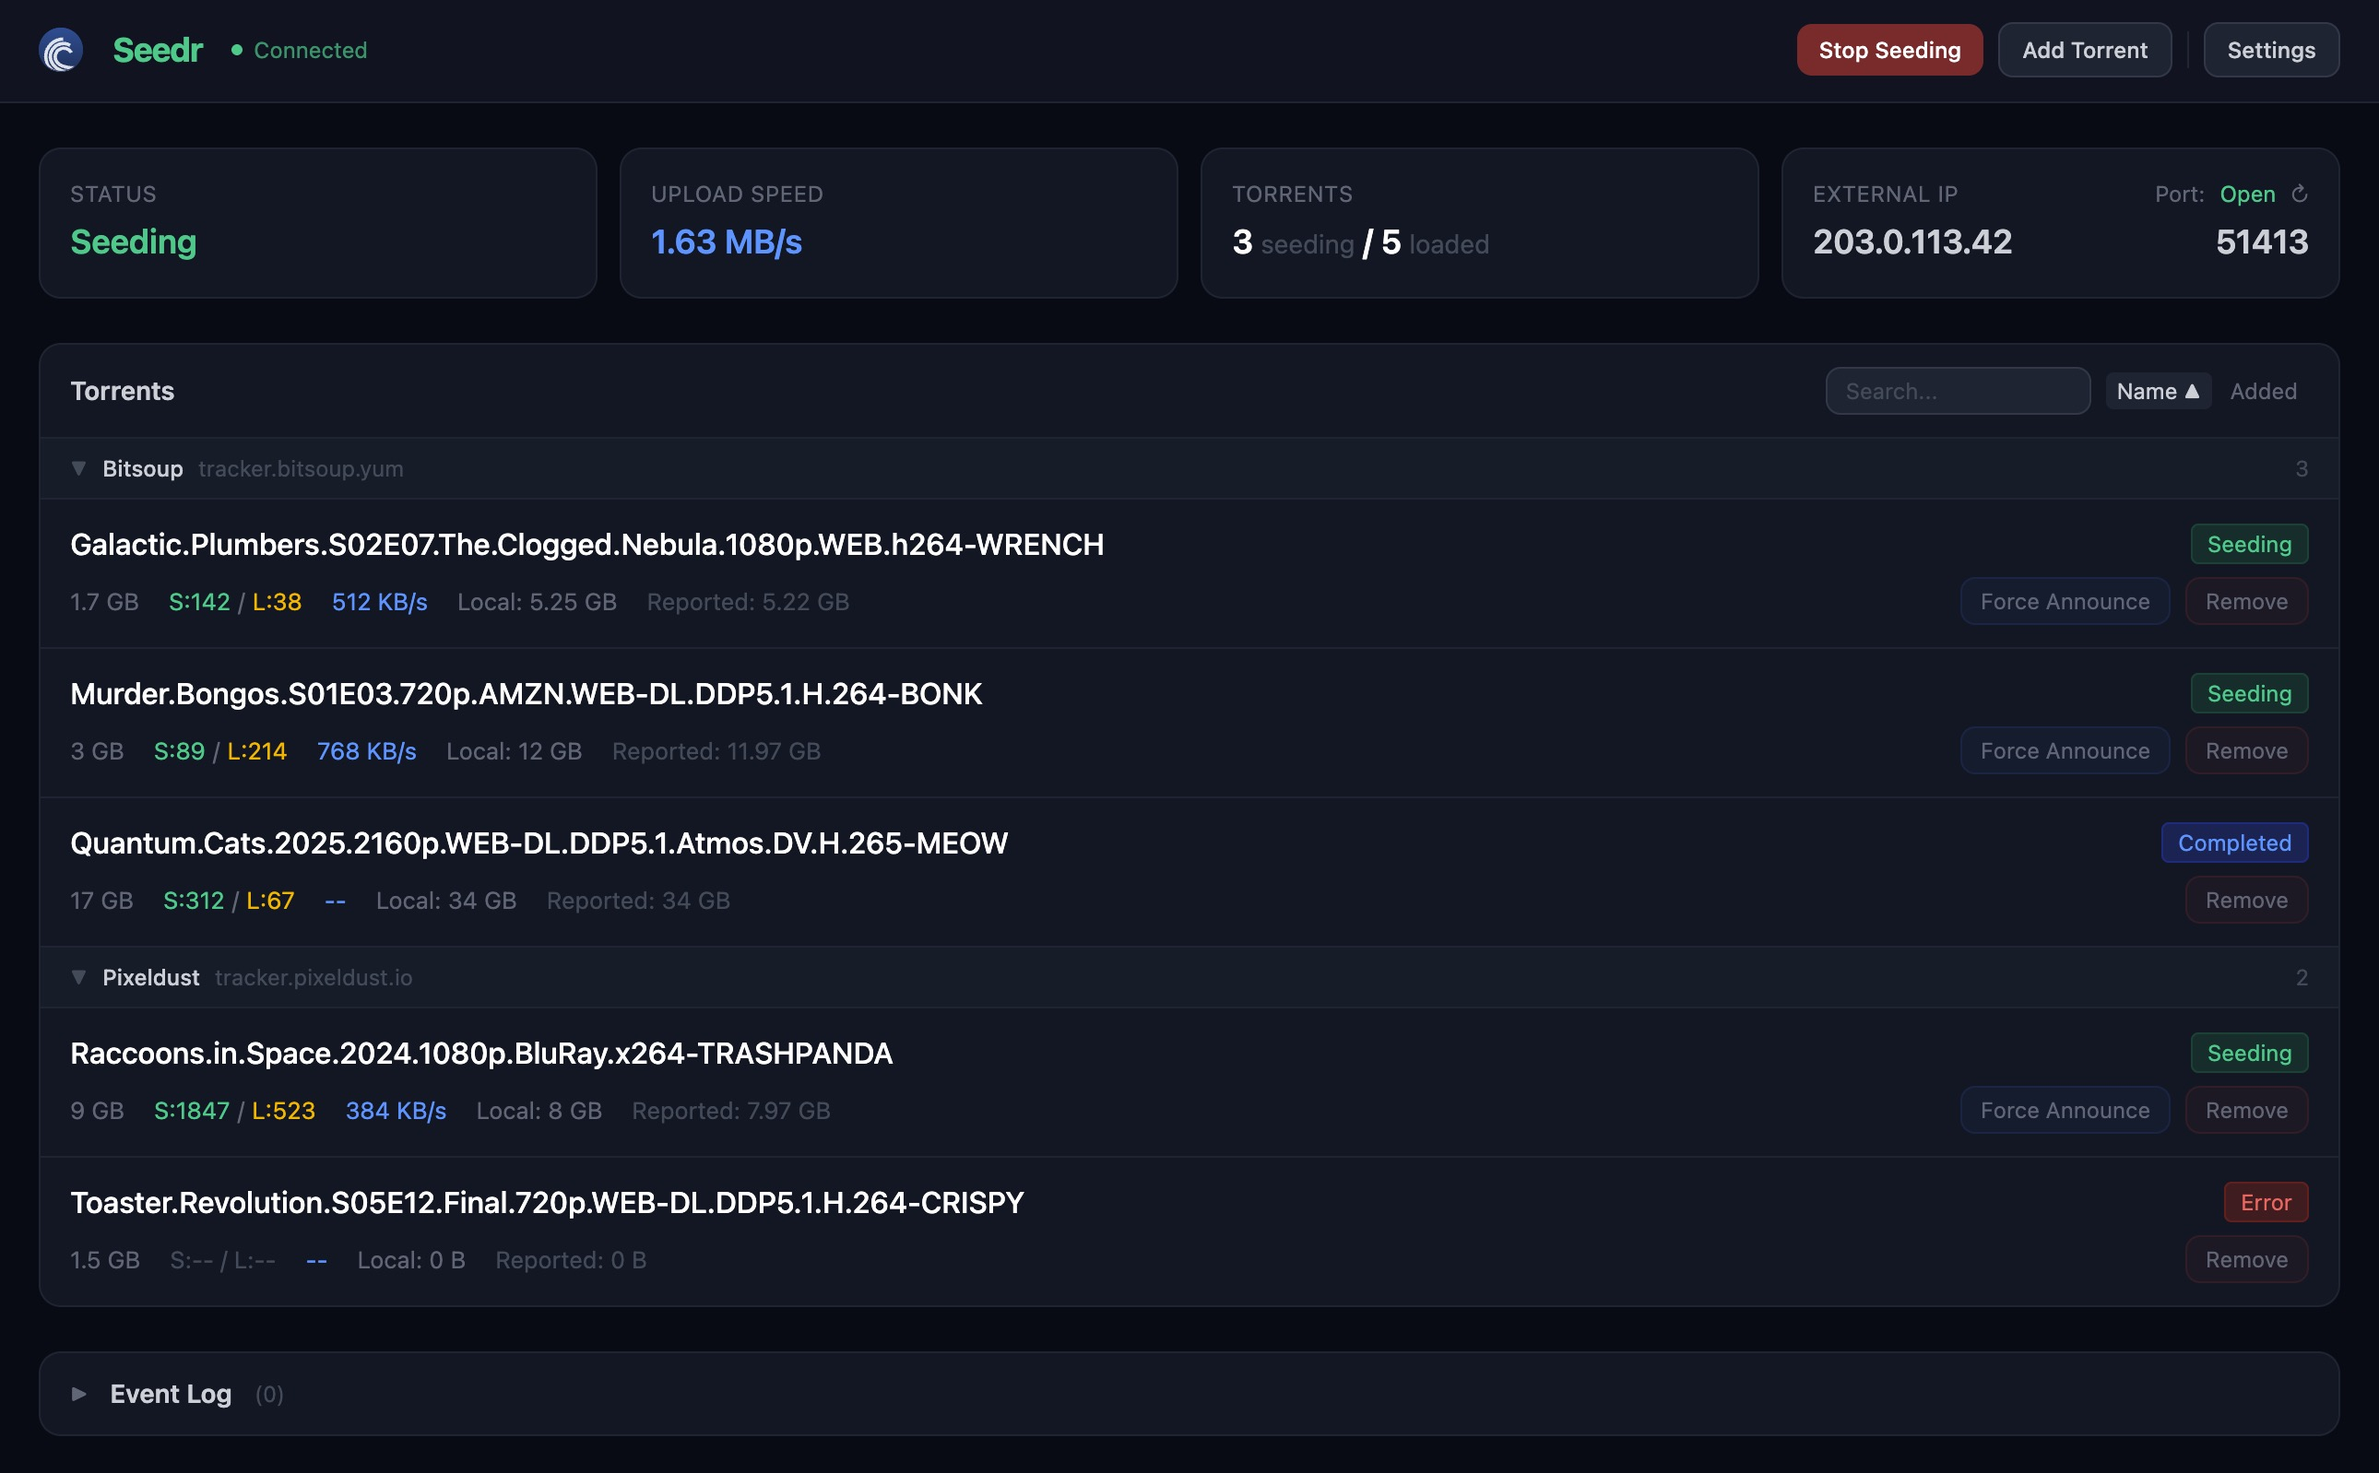
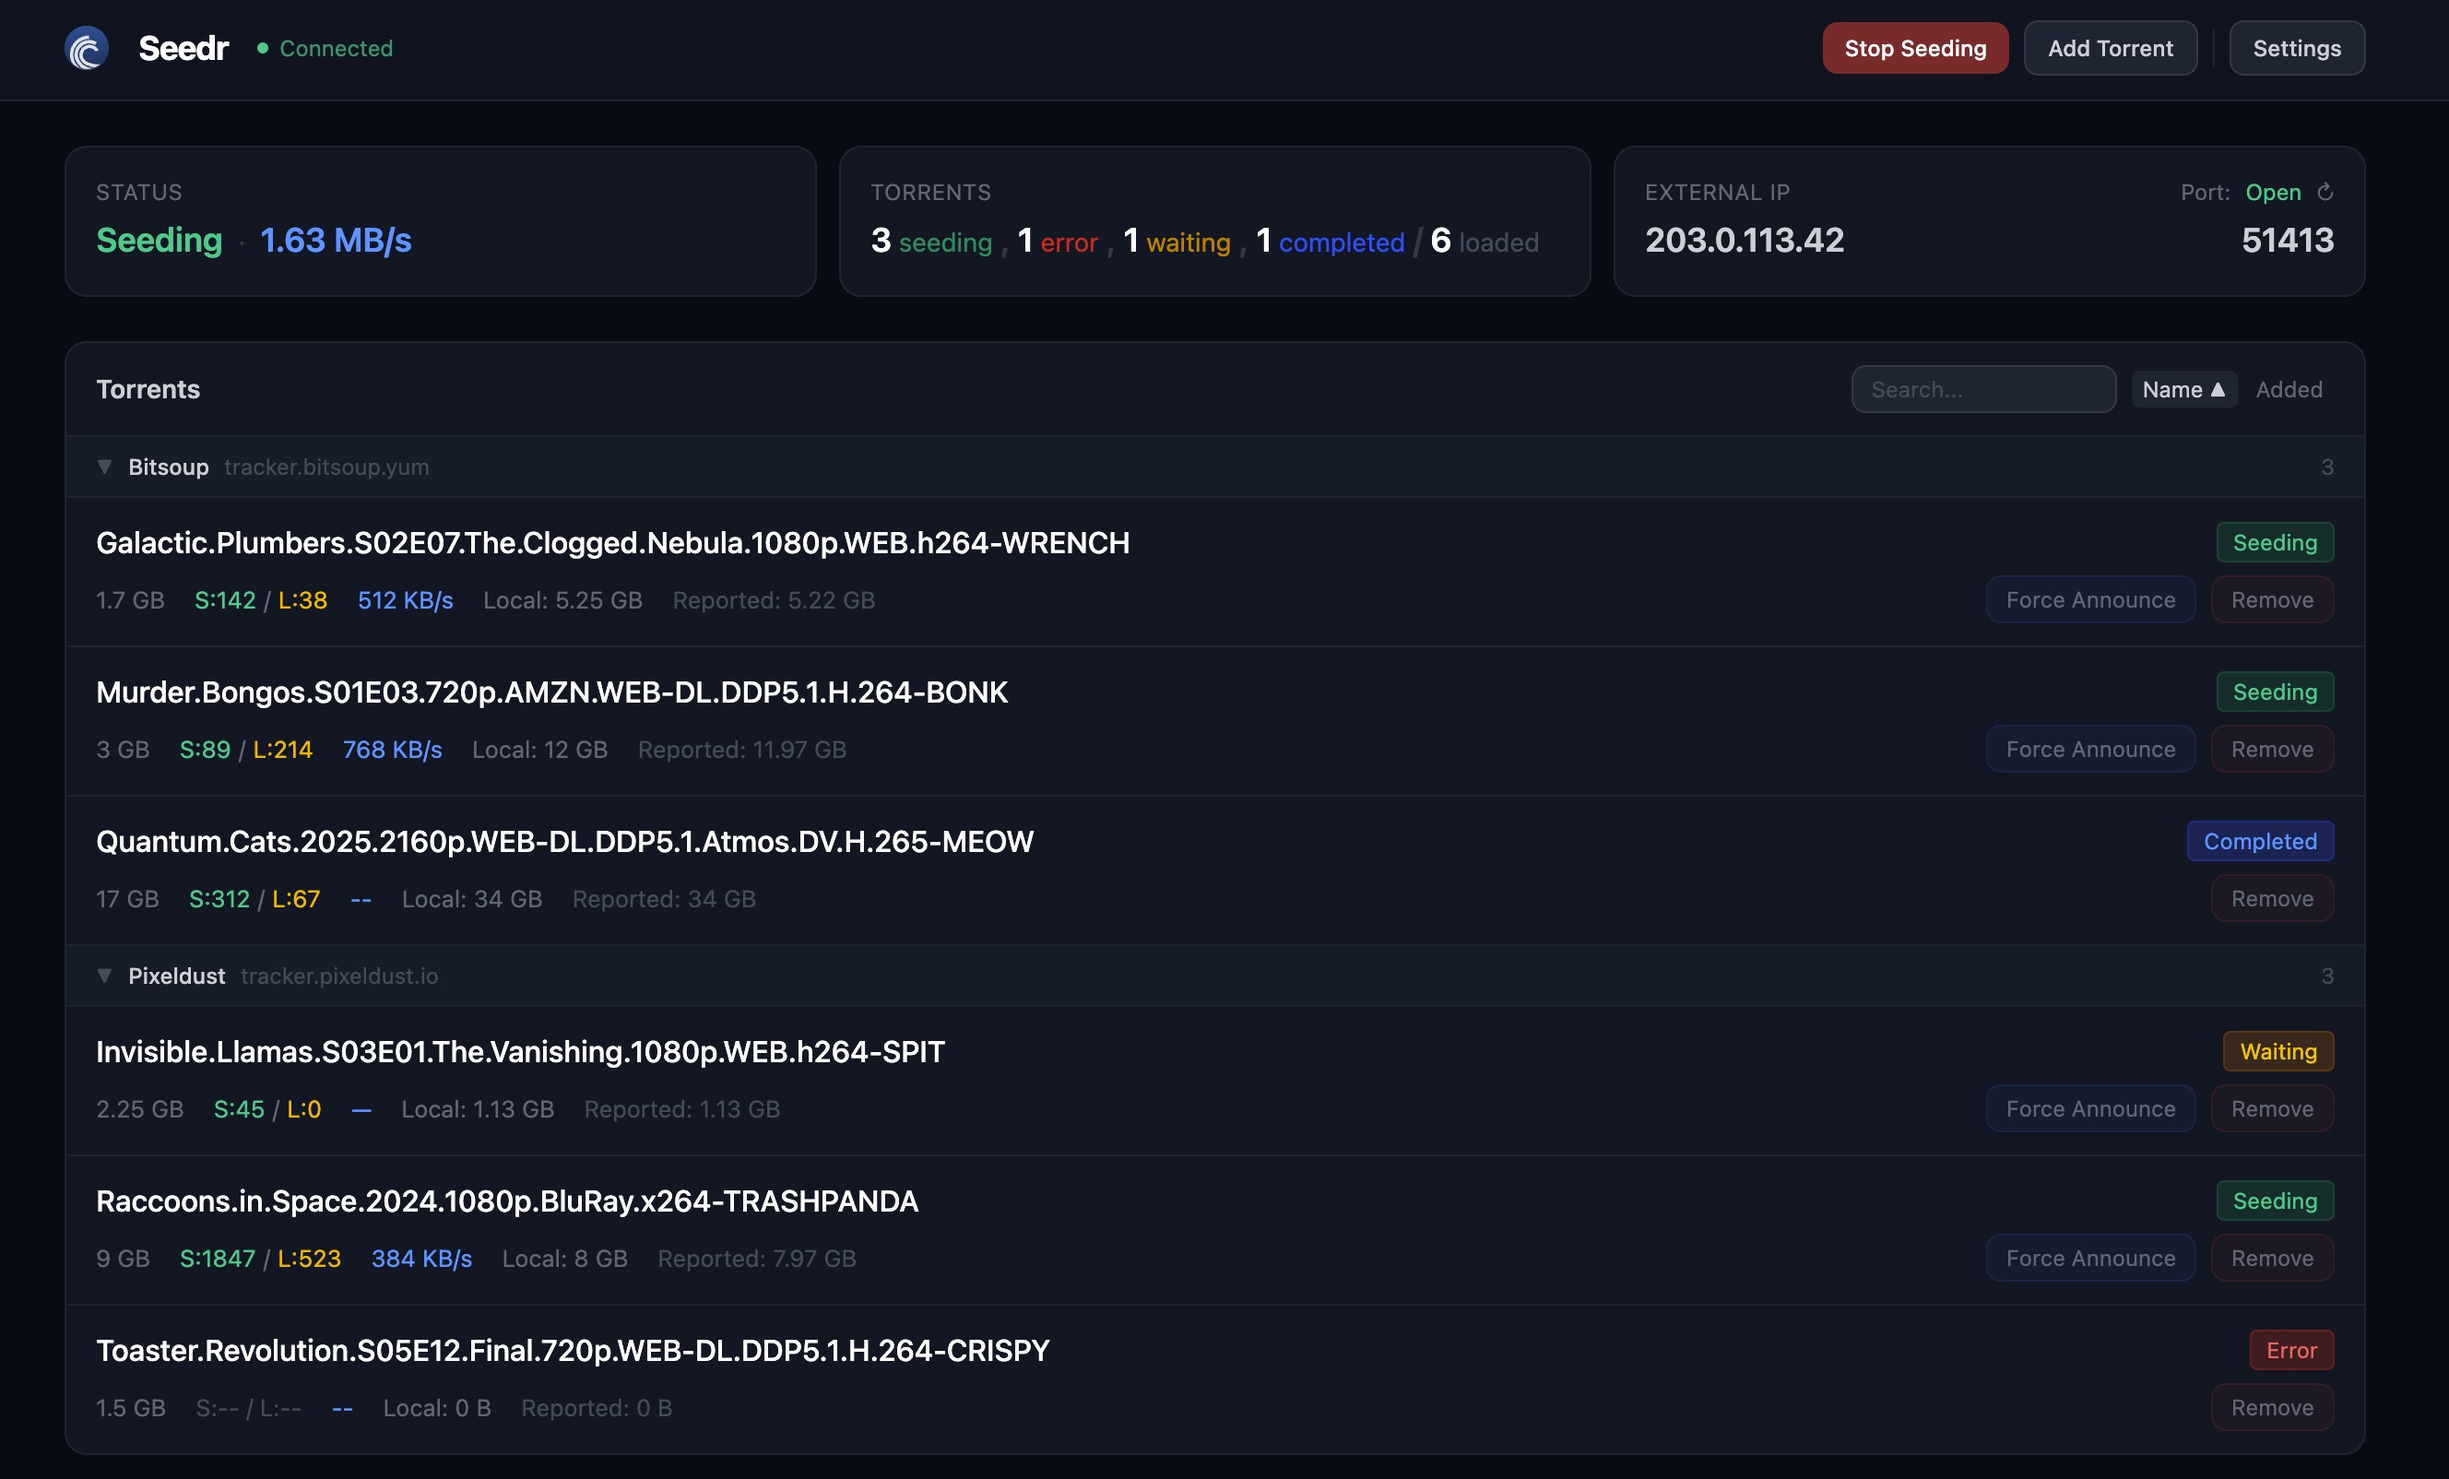
Merge status and speed into one widget, update screenshot

diff --git a/ui/src/components/StatusBar.vue b/ui/src/components/StatusBar.vue
@@ -50,20 +50,14 @@ const ipDisplay = computed(() => {
 </script>
 
 <template>
-  <div class="grid grid-cols-2 md:grid-cols-4 gap-3">
+  <div class="grid grid-cols-2 md:grid-cols-3 gap-3">
     <div class="bg-gray-900 rounded-xl border border-gray-800 p-4">
       <div class="text-xs text-gray-500 uppercase tracking-wide">Status</div>
-      <div
-        class="mt-1 text-lg font-semibold"
-        :class="statusClass"
-      >
-        {{ statusLabel }}
+      <div class="mt-1 flex items-baseline gap-2">
+        <span class="text-lg font-semibold" :class="statusClass">{{ statusLabel }}</span>
+        <span class="text-gray-700">&middot;</span>
+        <span class="text-lg font-semibold text-blue-400">{{ speedDisplay }}</span>
       </div>
-    </div>
-
-    <div class="bg-gray-900 rounded-xl border border-gray-800 p-4">
-      <div class="text-xs text-gray-500 uppercase tracking-wide">Upload Speed</div>
-      <div class="mt-1 text-lg font-semibold text-blue-400">{{ speedDisplay }}</div>
     </div>
 
     <div class="bg-gray-900 rounded-xl border border-gray-800 p-4">
@@ -80,7 +74,7 @@ const ipDisplay = computed(() => {
       </div>
     </div>
 
-    <div class="bg-gray-900 rounded-xl border border-gray-800 p-4">
+    <div class="col-span-2 md:col-span-1 bg-gray-900 rounded-xl border border-gray-800 p-4">
       <div class="flex items-center justify-between gap-2">
         <div class="text-xs text-gray-500 uppercase tracking-wide">External IP</div>
         <div class="text-xs text-gray-500 flex items-center gap-2">
